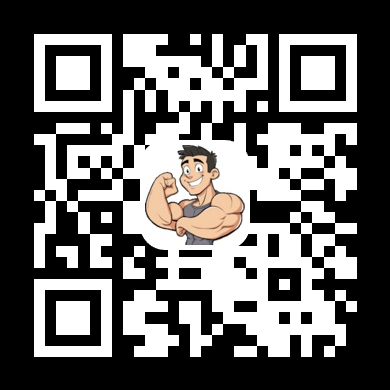
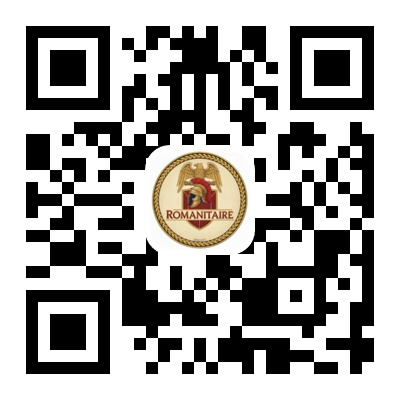
Add iOS installation instructions

diff --git a/content/en/docs/installation/iOS/_index.md b/content/en/docs/installation/iOS/_index.md
@@ -8,14 +8,11 @@ draft: false
 ---
 
 <p>
-To be developed.
-<!-- <a href="https://apps.apple.com/us/app/force-workout-helper/id6743862189?itscg=30200&itsct=apps_box_badge&mttnsubad=6743862189" style="display: inline-block;">
-    <img src="https://toolbox.marketingtools.apple.com/api/v2/badges/download-on-the-app-store/black/en-us?releaseDate=1744070400" alt="Download on the App Store" style="width: 246px; height: 82px; vertical-align: middle; object-fit: contain;" />
-    </a> -->
-</p>
-<!-- <p>
+<a href="https://apps.apple.com/us/app/romanitaire/id6758518585?itscg=30200&itsct=apps_box_badge&mttnsubad=6758518585" style="display: inline-block;">
+    <img src="https://toolbox.marketingtools.apple.com/api/v2/badges/download-on-the-app-store/black/en-us?releaseDate=1769731200" alt="Download on the App Store" style="width: 246px; height: 82px; vertical-align: middle; object-fit: contain;" />
+    </a>
+    </p>
+<p>
 <img src="/images/ios-qr-code.png" alt="QR code" />
-</p> -->
-
-
+</p>
     
